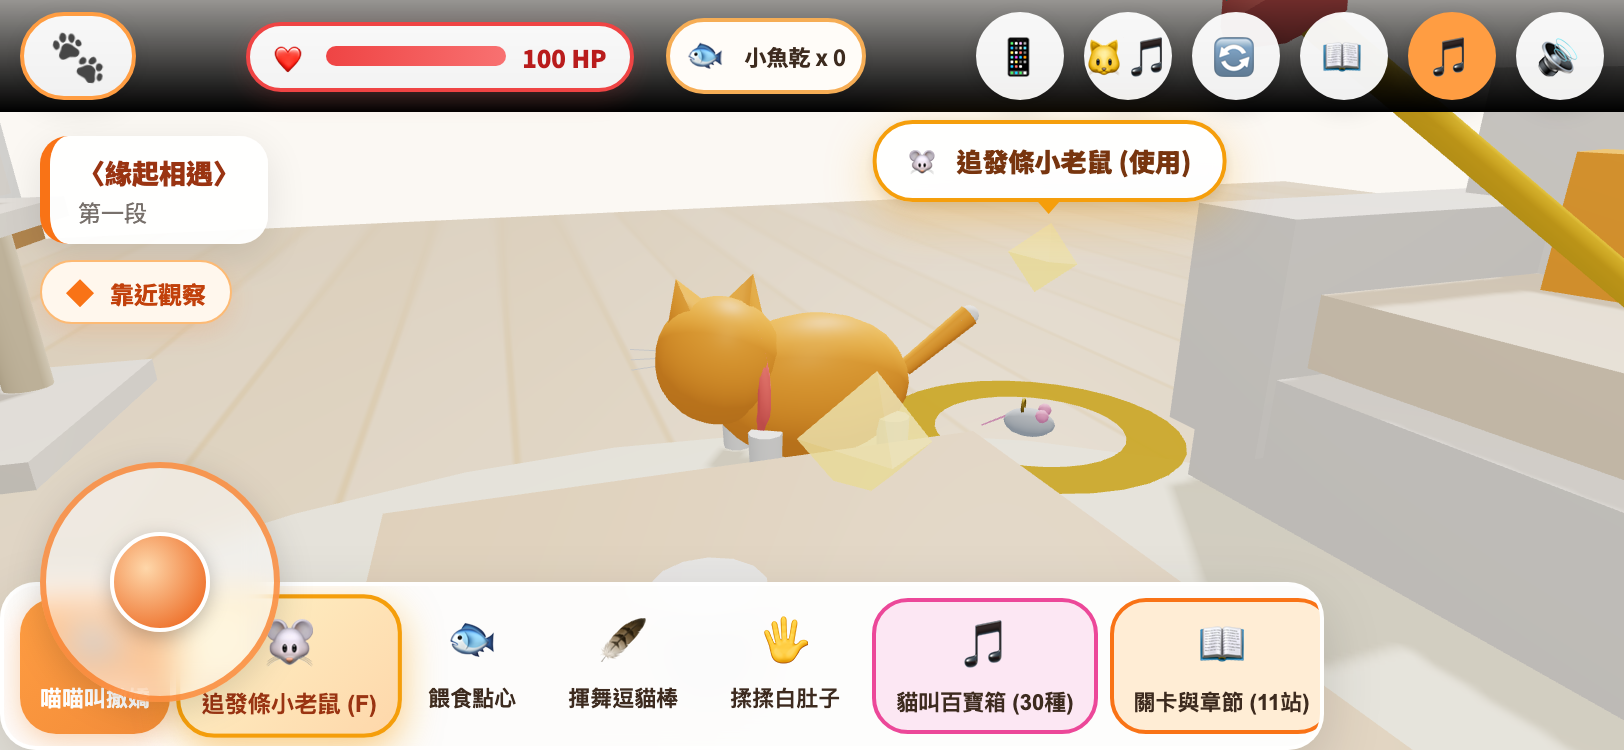
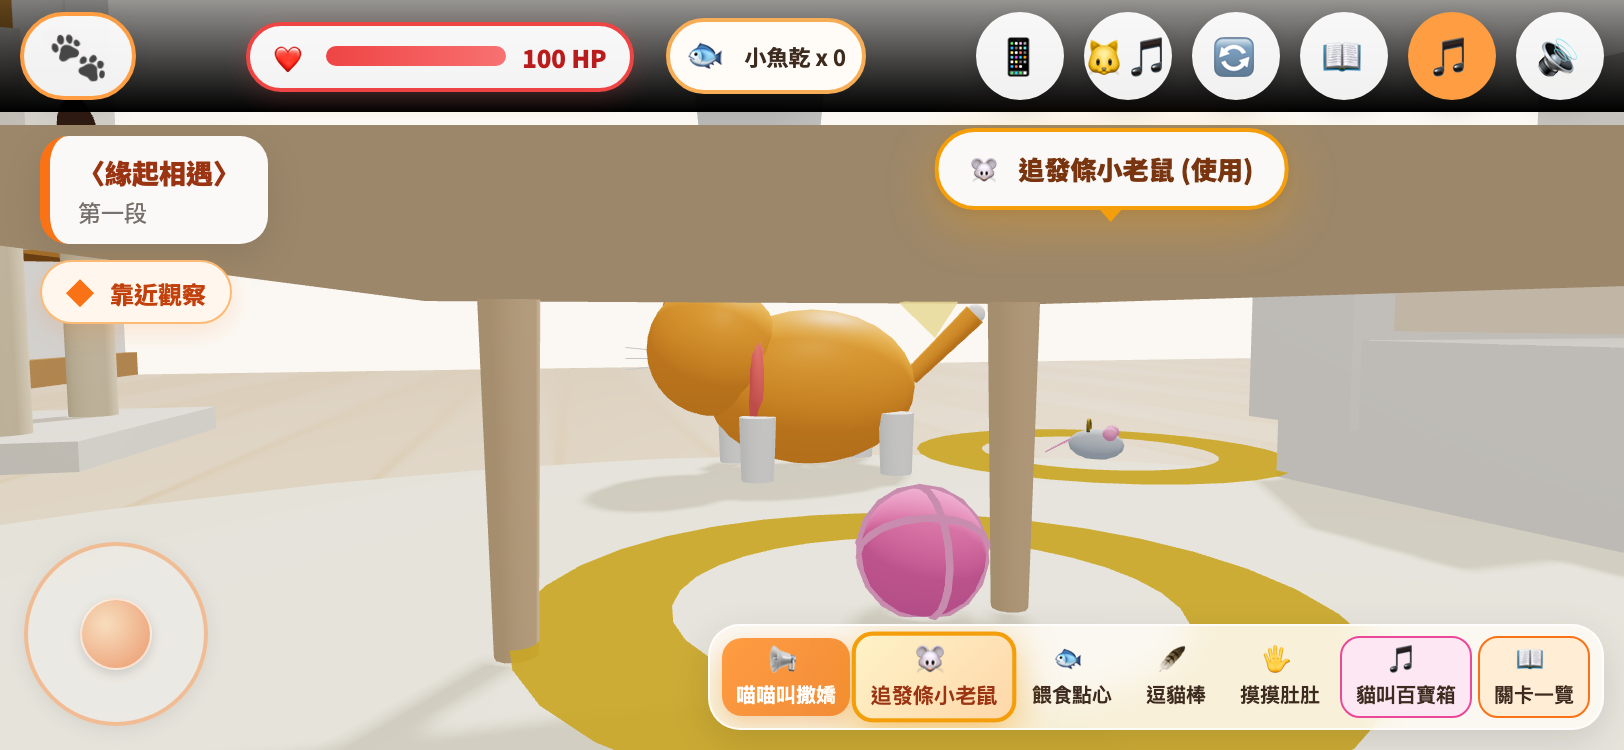
fix(ui): shrink and right-align bottom action dock, make virtual joystick semi-transparent without overlap

diff --git a/css/style.css b/css/style.css
@@ -249,68 +249,82 @@ rt {
   pointer-events: none;
 }
 
-/* 底部操作面板 */
+/* 底部操作面板 (固定於右下角，與左下角搖桿完全分離不重疊) */
 .bottom-bar {
+  position: fixed;
+  right: 14px;
+  bottom: 14px;
+  left: auto;
+  width: auto;
+  max-width: calc(100vw - 140px);
   display: flex;
-  justify-content: space-between;
-  align-items: flex-end;
-  padding: 20px 28px;
-  pointer-events: auto;
+  justify-content: flex-end;
+  align-items: center;
+  padding: 0;
+  z-index: 95;
+  pointer-events: none;
 }
 
 .action-dock {
+  pointer-events: auto;
   display: flex;
-  gap: 12px;
-  background: var(--card-bg);
-  padding: 8px 12px;
-  border-radius: 28px;
-  box-shadow: 0 10px 30px rgba(0,0,0,0.15);
-  backdrop-filter: blur(10px);
-  border: 2px solid rgba(255, 255, 255, 0.8);
+  align-items: center;
+  gap: 5px;
+  background: rgba(255, 251, 245, 0.85);
+  padding: 5px 8px;
+  border-radius: 20px;
+  box-shadow: 0 6px 20px rgba(0, 0, 0, 0.12);
+  backdrop-filter: blur(8px);
+  -webkit-backdrop-filter: blur(8px);
+  border: 1.5px solid rgba(255, 255, 255, 0.8);
+  max-width: 100%;
+  overflow-x: auto;
+  -webkit-overflow-scrolling: touch;
+}
+.action-dock::-webkit-scrollbar {
+  display: none;
 }
 
 .dock-btn {
   display: flex;
   flex-direction: column;
   align-items: center;
-  gap: 4px;
-  padding: 8px 16px;
+  justify-content: center;
+  gap: 2px;
+  padding: 5px 9px;
   background: transparent;
   border: none;
-  border-radius: 18px;
+  border-radius: 12px;
   cursor: pointer;
-  font-size: 12px;
+  font-size: 11px;
   font-weight: 700;
   color: var(--text-dark);
   transition: all 0.2s;
+  flex-shrink: 0;
+  white-space: nowrap;
 }
 .dock-btn .btn-icon {
-  font-size: 24px;
+  font-size: 16px;
+  line-height: 1.1;
 }
 .dock-btn:hover {
   background: var(--primary-light);
   color: var(--cat-orange);
-  transform: translateY(-3px);
+  transform: translateY(-2px);
 }
 .dock-btn.primary {
   background: linear-gradient(135deg, #ff9d42, #f28b38);
   color: white;
-  box-shadow: 0 4px 15px rgba(242, 139, 56, 0.4);
+  box-shadow: 0 3px 10px rgba(242, 139, 56, 0.35);
 }
 .dock-btn.primary:hover {
   background: linear-gradient(135deg, #ffaa55, #f59648);
-  transform: translateY(-4px) scale(1.03);
+  transform: translateY(-2px) scale(1.02);
 }
 
-/* 視角提示標籤 */
+/* 視角提示標籤 (頂部導航列已顯示目前視角，隱藏左下標籤以免與搖桿重疊) */
 .view-mode-tag {
-  background: rgba(0,0,0,0.65);
-  color: #ffeedb;
-  padding: 6px 14px;
-  border-radius: 16px;
-  font-size: 13px;
-  font-weight: 600;
-  backdrop-filter: blur(6px);
+  display: none !important;
 }
 
 /* 3D 場景內互動標記 (近距離靠近發光物體才淡入顯示提示) */
@@ -658,12 +672,13 @@ rt {
 }
 
 @media (max-width: 899px), (max-height: 500px) {
-  .top-bar { padding: 12px 16px; }
+  .top-bar { padding: 10px 14px; }
   .title-text h1 { font-size: 15px; }
   .title-text p { display: none; }
-  .bottom-bar { padding: 14px 16px; }
-  .action-dock { gap: 6px; padding: 6px 10px; }
-  .dock-btn { padding: 6px 10px; font-size: 11px; }
+  .bottom-bar { right: 10px; bottom: 10px; left: auto; max-width: calc(100vw - 118px); padding: 0; }
+  .action-dock { gap: 3px; padding: 4px 6px; border-radius: 16px; }
+  .dock-btn { padding: 4px 7px; font-size: 10px; border-radius: 10px; }
+  .dock-btn .btn-icon { font-size: 14px; }
   .help-card { display: none; }
 }
 
@@ -1100,32 +1115,42 @@ rt {
     display: none;
   }
 
-  /* 底部操作列：保留左側空間給虛擬搖桿 #pad */
+  /* 底部操作列：固定於右下角並縮小按鈕，完全避開左下虛擬搖桿 #pad */
   .bottom-bar {
-    bottom: 8px;
-    left: 144px;
-    width: calc(100% - 150px);
+    position: fixed;
+    right: 10px;
+    bottom: 10px;
+    left: auto;
+    width: auto;
+    max-width: calc(100vw - 118px);
     padding: 0;
   }
   .view-mode-tag {
-    display: none;
+    display: none !important;
   }
   .action-dock {
     overflow-x: auto;
     -webkit-overflow-scrolling: touch;
     flex-wrap: nowrap;
     justify-content: flex-start;
-    padding: 6px 8px;
-    width: 100%;
-    border-radius: 18px;
+    gap: 3px;
+    padding: 4px 6px;
+    width: auto;
+    max-width: 100%;
+    border-radius: 16px;
   }
   .action-dock::-webkit-scrollbar {
     display: none;
   }
   .dock-btn {
     flex-shrink: 0;
-    padding: 6px 10px;
-    font-size: 11px;
+    padding: 4px 7px;
+    font-size: 10px;
+    gap: 2px;
+    border-radius: 10px;
+  }
+  .dock-btn .btn-icon {
+    font-size: 14px;
   }
 
   /* 任務與提示標籤微縮，避開頂部 */
@@ -1336,35 +1361,53 @@ rt {
   cursor: pointer;
 }
 
-/* 觸控搖桿 (#pad 與 #padKnob) */
+/* 觸控搖桿 (#pad 與 #padKnob) — 半透明輕量化呈現 */
 #pad {
   position: fixed;
-  left: 20px;
-  bottom: 24px;
-  width: 120px;
-  height: 120px;
+  left: 16px;
+  bottom: 16px;
+  width: 100px;
+  height: 100px;
   border-radius: 50%;
-  background: rgba(255, 255, 255, 0.48);
-  backdrop-filter: blur(8px);
-  -webkit-backdrop-filter: blur(8px);
-  border: 3px solid rgba(249, 115, 22, 0.7);
-  box-shadow: 0 4px 18px rgba(0, 0, 0, 0.15);
+  background: rgba(255, 255, 255, 0.22);
+  backdrop-filter: blur(3px);
+  -webkit-backdrop-filter: blur(3px);
+  border: 2px solid rgba(249, 115, 22, 0.38);
+  box-shadow: 0 2px 10px rgba(0, 0, 0, 0.08);
   touch-action: none;
   z-index: 120;
   display: flex;
   align-items: center;
   justify-content: center;
   box-sizing: border-box;
+  transition: opacity 0.2s ease, background 0.2s ease;
+}
+#pad:active {
+  background: rgba(255, 255, 255, 0.32);
+  border-color: rgba(249, 115, 22, 0.55);
 }
 #padKnob {
-  width: 50px;
-  height: 50px;
+  width: 40px;
+  height: 40px;
   border-radius: 50%;
-  background: radial-gradient(circle at 35% 35%, #fed7aa, #ea580c);
-  border: 2px solid #ffffff;
-  box-shadow: 0 3px 10px rgba(0, 0, 0, 0.25);
+  background: radial-gradient(circle at 35% 35%, rgba(254, 215, 170, 0.65), rgba(234, 88, 12, 0.55));
+  border: 1.5px solid rgba(255, 255, 255, 0.65);
+  box-shadow: 0 2px 6px rgba(0, 0, 0, 0.14);
   pointer-events: none;
   will-change: transform;
+}
+
+@media (max-width: 960px), (max-height: 540px) {
+  #pad {
+    left: 12px;
+    bottom: 12px;
+    width: 92px;
+    height: 92px;
+  }
+  #padKnob {
+    width: 36px;
+    height: 36px;
+  }
 }
 
 /* 左側任務與提示直向群組 (垂直堆疊，不重疊頂部) */

diff --git a/index.html b/index.html
@@ -172,11 +172,11 @@
       <div class="action-dock" id="action-dock">
         <button class="dock-btn primary" id="btn-primary-action" onclick="window.__bird && window.__bird.interact()">
           <span class="btn-icon">🗣</span>
-          <span id="btn-primary-label">與貓咪對話</span>
+          <span id="btn-primary-label">與貓對話</span>
         </button>
         <button class="dock-btn" id="btn-sit-sofa" onclick="game.interactNearbyOrOpenModal()">
           <span class="btn-icon" id="btn-sit-icon">🛋</span>
-          <span id="btn-sit-label">客廳沙發 (F)</span>
+          <span id="btn-sit-label">沙發互動</span>
         </button>
         <button class="dock-btn" id="btn-feed-action" onclick="game.feedCat()">
           <span class="btn-icon">🐟</span>
@@ -184,19 +184,19 @@
         </button>
         <button class="dock-btn" id="btn-wand-action" onclick="game.playWand()">
           <span class="btn-icon">🪶</span>
-          <span>揮舞逗貓棒</span>
+          <span>逗貓棒</span>
         </button>
         <button class="dock-btn" id="btn-pet" onclick="game.petCatHead()">
           <span class="btn-icon">🖐</span>
-          <span>揉揉白肚子</span>
+          <span>摸摸肚肚</span>
         </button>
-        <button class="dock-btn" style="background:#fce7f3; border: 2px solid #ec4899;" onclick="openSoundboard()">
+        <button class="dock-btn" style="background:#fce7f3; border: 1.5px solid #ec4899;" onclick="openSoundboard()">
           <span class="btn-icon">🎵</span>
-          <span>貓叫百寶箱 (30種)</span>
+          <span>貓叫百寶箱</span>
         </button>
-        <button class="dock-btn" style="background:#ffedd5; border: 2px solid #f97316;" onclick="curriculumSystem.openStagesModal()">
+        <button class="dock-btn" style="background:#ffedd5; border: 1.5px solid #f97316;" onclick="curriculumSystem.openStagesModal()">
           <span class="btn-icon">📖</span>
-          <span>關卡與章節 (11站)</span>
+          <span>關卡一覽</span>
         </button>
       </div>
     </footer>

diff --git a/js/game.js b/js/game.js
@@ -3199,12 +3199,12 @@ class GameEngine {
       this.activeNearbySpot = closestSpot;
       if (dockBtn) dockBtn.classList.add('highlight-item-btn');
       if (dockIcon) dockIcon.textContent = closestSpot.icon;
-      if (dockLabel) dockLabel.textContent = `${closestSpot.name.replace(' (使用)', '')} (F)`;
+      if (dockLabel) dockLabel.textContent = closestSpot.name.replace(' (使用)', '');
     } else {
       this.activeNearbySpot = null;
       if (dockBtn) dockBtn.classList.remove('highlight-item-btn');
       if (dockIcon) dockIcon.textContent = '🛋';
-      if (dockLabel) dockLabel.textContent = '客廳沙發 (F)';
+      if (dockLabel) dockLabel.textContent = '沙發互動';
     }
   }
 
